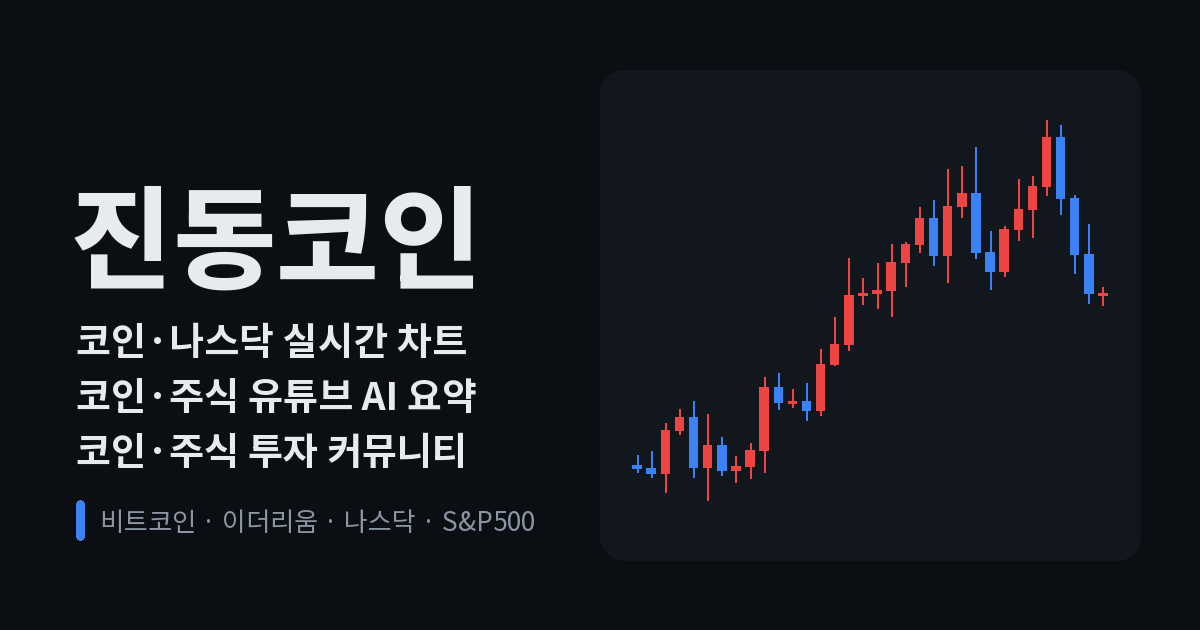
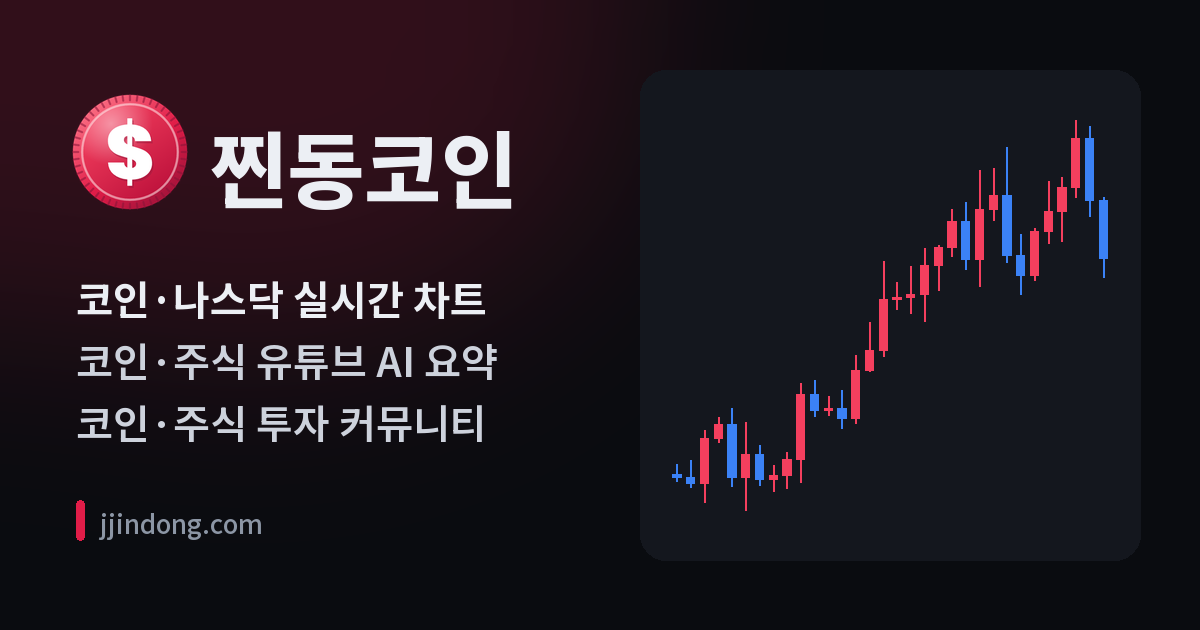
Give every page its own share preview (OG) and new 찐동코인 OG images
- Subpages only set <title>, so og:/twitter: tags fell back to the home
  page's title, description, and URL. buildPageMetadata now sets per-page
  og:title ("<page> | 찐동코인"), description, URL, image, and Twitter card.
- New OG images with the coin logo and the current name: home, chart
  (candles), and community (board cards); posts use the community image and
  "<post title> | 찐동코인 커뮤니티".
- Includes the 진동코인 -> 찐동코인 rename in brand/SEO copy.

Changed region(s): [[0.0, 0.0, 0.4933, 0.754], [0.5242, 0.2111, 0.925, 0.7841], [0.0617, 0.7841, 0.4625, 0.8746]]

diff --git a/src/app/[locale]/community/[postId]/page.tsx b/src/app/[locale]/community/[postId]/page.tsx
@@ -1,4 +1,5 @@
 import type { Metadata } from "next";
+import { SERVICE_NAME } from "@/lib/brand";
 import { createClient } from "@supabase/supabase-js";
 import { notFound } from "next/navigation";
 import { PostDetail } from "@/components/community/post-detail";
@@ -25,14 +26,22 @@ export async function generateMetadata({ params }: Props): Promise<Metadata> {
     const text = data.content_html.replace(/<[^>]+>/g, " ").replace(/\s+/g, " ").trim().slice(0, 140);
     return {
       title: data.title,
-      description: text || "진동코인 코인 커뮤니티 게시글",
+      description: text || "찐동코인 코인 커뮤니티 게시글",
       alternates: { canonical: `/community/${postId}` },
       openGraph: {
         type: "article",
-        title: data.title,
-        description: text || "진동코인 코인 커뮤니티 게시글",
+        title: `${data.title} | ${SERVICE_NAME} 커뮤니티`,
+        description: text || "찐동코인 코인 커뮤니티 게시글",
         url: `/community/${postId}`,
-        images: [{ url: "/ogImage.png", width: 1200, height: 630 }],
+        siteName: SERVICE_NAME,
+        locale: "ko_KR",
+        images: [{ url: "/og-community.png", width: 1200, height: 630, alt: `${SERVICE_NAME} 커뮤니티` }],
+      },
+      twitter: {
+        card: "summary_large_image",
+        title: `${data.title} | ${SERVICE_NAME} 커뮤니티`,
+        description: text || `${SERVICE_NAME} 코인·주식 커뮤니티 게시글`,
+        images: ["/og-community.png"],
       },
     };
   } catch {

diff --git a/src/lib/seo.ts b/src/lib/seo.ts
@@ -217,3 +217,43 @@ export const HOME_SEO_INTRO = {
   heading: "찐동코인 — 코인·미국증시 실시간 차트 · 유튜브 AI 요약 · 투자 커뮤니티",
   body: SERVICE_DESCRIPTION,
 };
+
+/**
+ * 하위 페이지 메타데이터 — title/description만 쓰면 og:·twitter:가 홈 값을 그대로 물려받으므로
+ * 페이지마다 공유 미리보기(제목·설명·주소·이미지)를 함께 만든다.
+ */
+export function buildPageMetadata(options: {
+  title: string;
+  description: string;
+  path: string;
+  /** public/ 아래 1200x630 이미지 (기본: 홈 이미지) */
+  image?: string;
+  imageAlt?: string;
+  noindex?: boolean;
+}): Metadata {
+  const copy = getSeoCopy(defaultLocale);
+  const fullTitle = `${options.title} | ${copy.siteName}`;
+  const image = options.image ?? OG_IMAGE_PATH;
+  const alt = options.imageAlt ?? `${copy.siteName} — ${options.title}`;
+  return {
+    title: options.title,
+    description: options.description,
+    alternates: { canonical: options.path },
+    ...(options.noindex ? { robots: { index: false, follow: false } } : {}),
+    openGraph: {
+      title: fullTitle,
+      description: options.description,
+      url: options.path,
+      siteName: copy.siteName,
+      locale: getOpenGraphLocale(defaultLocale),
+      type: "website",
+      images: [{ url: image, width: 1200, height: 630, alt }],
+    },
+    twitter: {
+      card: "summary_large_image",
+      title: fullTitle,
+      description: options.description,
+      images: [image],
+    },
+  };
+}

diff --git a/src/lib/brand.ts b/src/lib/brand.ts
@@ -1,6 +1,6 @@
 import type { AppLocale } from "@/i18n/routing";
 
-export const SERVICE_NAME = "진동코인";
+export const SERVICE_NAME = "찐동코인";
 export const SERVICE_NAME_EN = "JindongCoin";
 export const SERVICE_NAME_JA = "JindongCoin";
 
@@ -30,7 +30,7 @@ export function getLocalizedTagline(locale: AppLocale): string {
 
 /** 서비스 한 줄 소개 (메타 description·OG·JSON-LD 공통) */
 export const SERVICE_DESCRIPTION =
-  "진동코인은 비트코인·이더리움 같은 주요 코인과 나스닥·S&P500 등 미국 증시 지수의 실시간 차트를 보여 주고, 코인·주식 유튜브 전망 영상을 AI가 영상 속 발언만 근거로 요약해 주며, 코인과 주식 투자자가 분석과 정보를 나누는 커뮤니티입니다.";
+  "찐동코인은 비트코인·이더리움 같은 주요 코인과 나스닥·S&P500 등 미국 증시 지수의 실시간 차트를 보여 주고, 코인·주식 유튜브 전망 영상을 AI가 영상 속 발언만 근거로 요약해 주며, 코인과 주식 투자자가 분석과 정보를 나누는 커뮤니티입니다.";
 
 /** 서비스가 주는 가치 — 소개 페이지·JSON-LD featureList·홈 소개 문구에 사용 */
 export const SERVICE_VALUES = [
@@ -50,6 +50,7 @@ export const SERVICE_VALUES = [
 
 /** 한국어 검색 유입용 핵심 키워드 */
 export const SERVICE_KEYWORDS = [
+  "찐동코인",
   "진동코인",
   "진코",
   "코인 커뮤니티",

diff --git a/src/lib/seo-i18n.ts b/src/lib/seo-i18n.ts
@@ -15,10 +15,10 @@ export type SeoLocaleCopy = {
 /** 실제 서빙은 ko만 — en/ja는 키 호환용으로 ko 문구를 그대로 쓴다 */
 const KO_COPY: SeoLocaleCopy = {
   siteName: SERVICE_NAME,
-  homeTitle: "진동코인 - 코인·나스닥 실시간 차트, 코인·주식 유튜브 AI 요약, 투자 커뮤니티",
+  homeTitle: "찐동코인 - 코인·나스닥 실시간 차트, 코인·주식 유튜브 AI 요약, 투자 커뮤니티",
   homeDescription:
-    "비트코인·이더리움과 나스닥·S&P500 실시간 차트, 코인·미국 주식 전망 유튜브 영상의 AI 요약, 코인·주식 투자자 커뮤니티를 한곳에서. 진동코인.",
-  ogAlt: "진동코인 — 코인·미국증시 실시간 차트 · 유튜브 AI 요약 · 투자 커뮤니티",
+    "비트코인·이더리움과 나스닥·S&P500 실시간 차트, 코인·미국 주식 전망 유튜브 영상의 AI 요약, 코인·주식 투자자 커뮤니티를 한곳에서. 찐동코인.",
+  ogAlt: "찐동코인 — 코인·미국증시 실시간 차트 · 유튜브 AI 요약 · 투자 커뮤니티",
   schemaLanguage: "ko",
   featureList: [
     "코인 실시간 시세와 캔들 차트 (15분봉~주봉)",
@@ -30,7 +30,7 @@ const KO_COPY: SeoLocaleCopy = {
   ],
   faq: [
     {
-      question: "진동코인은 어떤 서비스인가요?",
+      question: "찐동코인은 어떤 서비스인가요?",
       answer: SERVICE_DESCRIPTION,
     },
     {

diff --git a/src/app/[locale]/community/page.tsx b/src/app/[locale]/community/page.tsx
@@ -1,13 +1,16 @@
 import type { Metadata } from "next";
+import { SERVICE_NAME } from "@/lib/brand";
+import { buildPageMetadata } from "@/lib/seo";
 import { Suspense } from "react";
 import { CommunityList } from "@/components/community/community-list";
 import { RaisePageShell } from "@/components/raise/raise-chrome";
 
-export const metadata: Metadata = {
-  title: "커뮤니티",
-  description: "진동코인 코인·주식 커뮤니티 — 코인분석, 주식분석, 해외주식, 국내주식, 뉴스·정보, 질문, 손익인증 게시판에서 비트코인·나스닥·미국 주식 이야기를 나눠 보세요.",
-  alternates: { canonical: "/community" },
-};
+export const metadata: Metadata = buildPageMetadata({
+  title: "코인·주식 커뮤니티",
+  description: `${SERVICE_NAME} 코인·주식 커뮤니티 — 코인분석, 주식분석, 해외주식, 국내주식, 뉴스·정보, 질문, 손익인증 게시판에서 비트코인·나스닥·미국 주식 이야기를 나눠 보세요.`,
+  path: "/community",
+  image: "/og-community.png",
+});
 
 export default function CommunityPage() {
   return (

diff --git a/src/app/[locale]/chart/page.tsx b/src/app/[locale]/chart/page.tsx
@@ -1,4 +1,5 @@
 import type { Metadata } from "next";
+import { buildPageMetadata } from "@/lib/seo";
 import { setRequestLocale } from "next-intl/server";
 import RaiseChart from "@/components/raise/raise-chart";
 import type { AppLocale } from "@/i18n/routing";
@@ -12,12 +13,13 @@ export function generateStaticParams() {
   return routing.locales.map((locale) => ({ locale }));
 }
 
-export const metadata: Metadata = {
+export const metadata: Metadata = buildPageMetadata({
   title: "코인·나스닥 실시간 차트",
   description:
     "비트코인·이더리움·리플·솔라나와 나스닥·나스닥100·S&P500·다우존스 실시간 캔들 차트. 15분봉부터 주봉까지 한눈에 확인하세요.",
-  alternates: { canonical: "/chart" },
-};
+  path: "/chart",
+  image: "/og-chart.png",
+});
 
 export default async function ChartPage({ params }: PageProps) {
   const { locale } = await params;

diff --git a/src/app/[locale]/privacy/page.tsx b/src/app/[locale]/privacy/page.tsx
@@ -1,12 +1,14 @@
 import type { Metadata } from "next";
+import { buildPageMetadata } from "@/lib/seo";
 import Link from "next/link";
 import { RaisePageShell } from "@/components/raise/raise-chrome";
 import { GOOGLE_ADSENSE_CLIENT, SERVICE_NAME } from "@/lib/brand";
 
-export const metadata: Metadata = {
+export const metadata: Metadata = buildPageMetadata({
   title: "개인정보처리방침",
-  description: `${SERVICE_NAME} 개인정보처리방침 — 처리 정보, 쿠키·광고(Google AdSense), YouTube 임베드, 이용자 권리`,
-};
+  description: `${SERVICE_NAME} 개인정보처리방침 — 처리 정보, 쿠키·광고(Google AdSense), YouTube 임베드, AI 요약, 이용자 권리`,
+  path: "/privacy",
+});
 
 export default function PrivacyPage() {
   return (

diff --git a/src/app/[locale]/about/page.tsx b/src/app/[locale]/about/page.tsx
@@ -4,13 +4,13 @@ import { RaisePageShell } from "@/components/raise/raise-chrome";
 import { getSeoCopy } from "@/lib/seo-i18n";
 import { JsonLd } from "@/components/seo/json-ld";
 import { SERVICE_VALUES } from "@/lib/brand";
-import { getFaqJsonLd, HOME_SEO_INTRO } from "@/lib/seo";
+import { getFaqJsonLd, HOME_SEO_INTRO, buildPageMetadata } from "@/lib/seo";
 
-export const metadata: Metadata = {
+export const metadata: Metadata = buildPageMetadata({
   title: "서비스 소개",
-  alternates: { canonical: "/about" },
   description: HOME_SEO_INTRO.body,
-};
+  path: "/about",
+});
 
 export default function AboutPage() {
   const copy = getSeoCopy("ko");

diff --git a/src/app/[locale]/terms/page.tsx b/src/app/[locale]/terms/page.tsx
@@ -1,12 +1,14 @@
 import type { Metadata } from "next";
+import { buildPageMetadata } from "@/lib/seo";
 import Link from "next/link";
 import { RaisePageShell } from "@/components/raise/raise-chrome";
 import { SERVICE_NAME } from "@/lib/brand";
 
-export const metadata: Metadata = {
+export const metadata: Metadata = buildPageMetadata({
   title: "이용약관",
   description: `${SERVICE_NAME} 서비스 이용약관 — 서비스 성격, 투자 면책, 외부 콘텐츠, 광고`,
-};
+  path: "/terms",
+});
 
 export default function TermsPage() {
   return (

diff --git a/src/app/[locale]/contact/page.tsx b/src/app/[locale]/contact/page.tsx
@@ -1,12 +1,14 @@
 import type { Metadata } from "next";
+import { buildPageMetadata } from "@/lib/seo";
 import Link from "next/link";
 import { RaisePageShell } from "@/components/raise/raise-chrome";
 import { SERVICE_NAME } from "@/lib/brand";
 
-export const metadata: Metadata = {
+export const metadata: Metadata = buildPageMetadata({
   title: "문의",
   description: `${SERVICE_NAME} 서비스 문의 및 연락처입니다.`,
-};
+  path: "/contact",
+});
 
 export default function ContactPage() {
   return (
